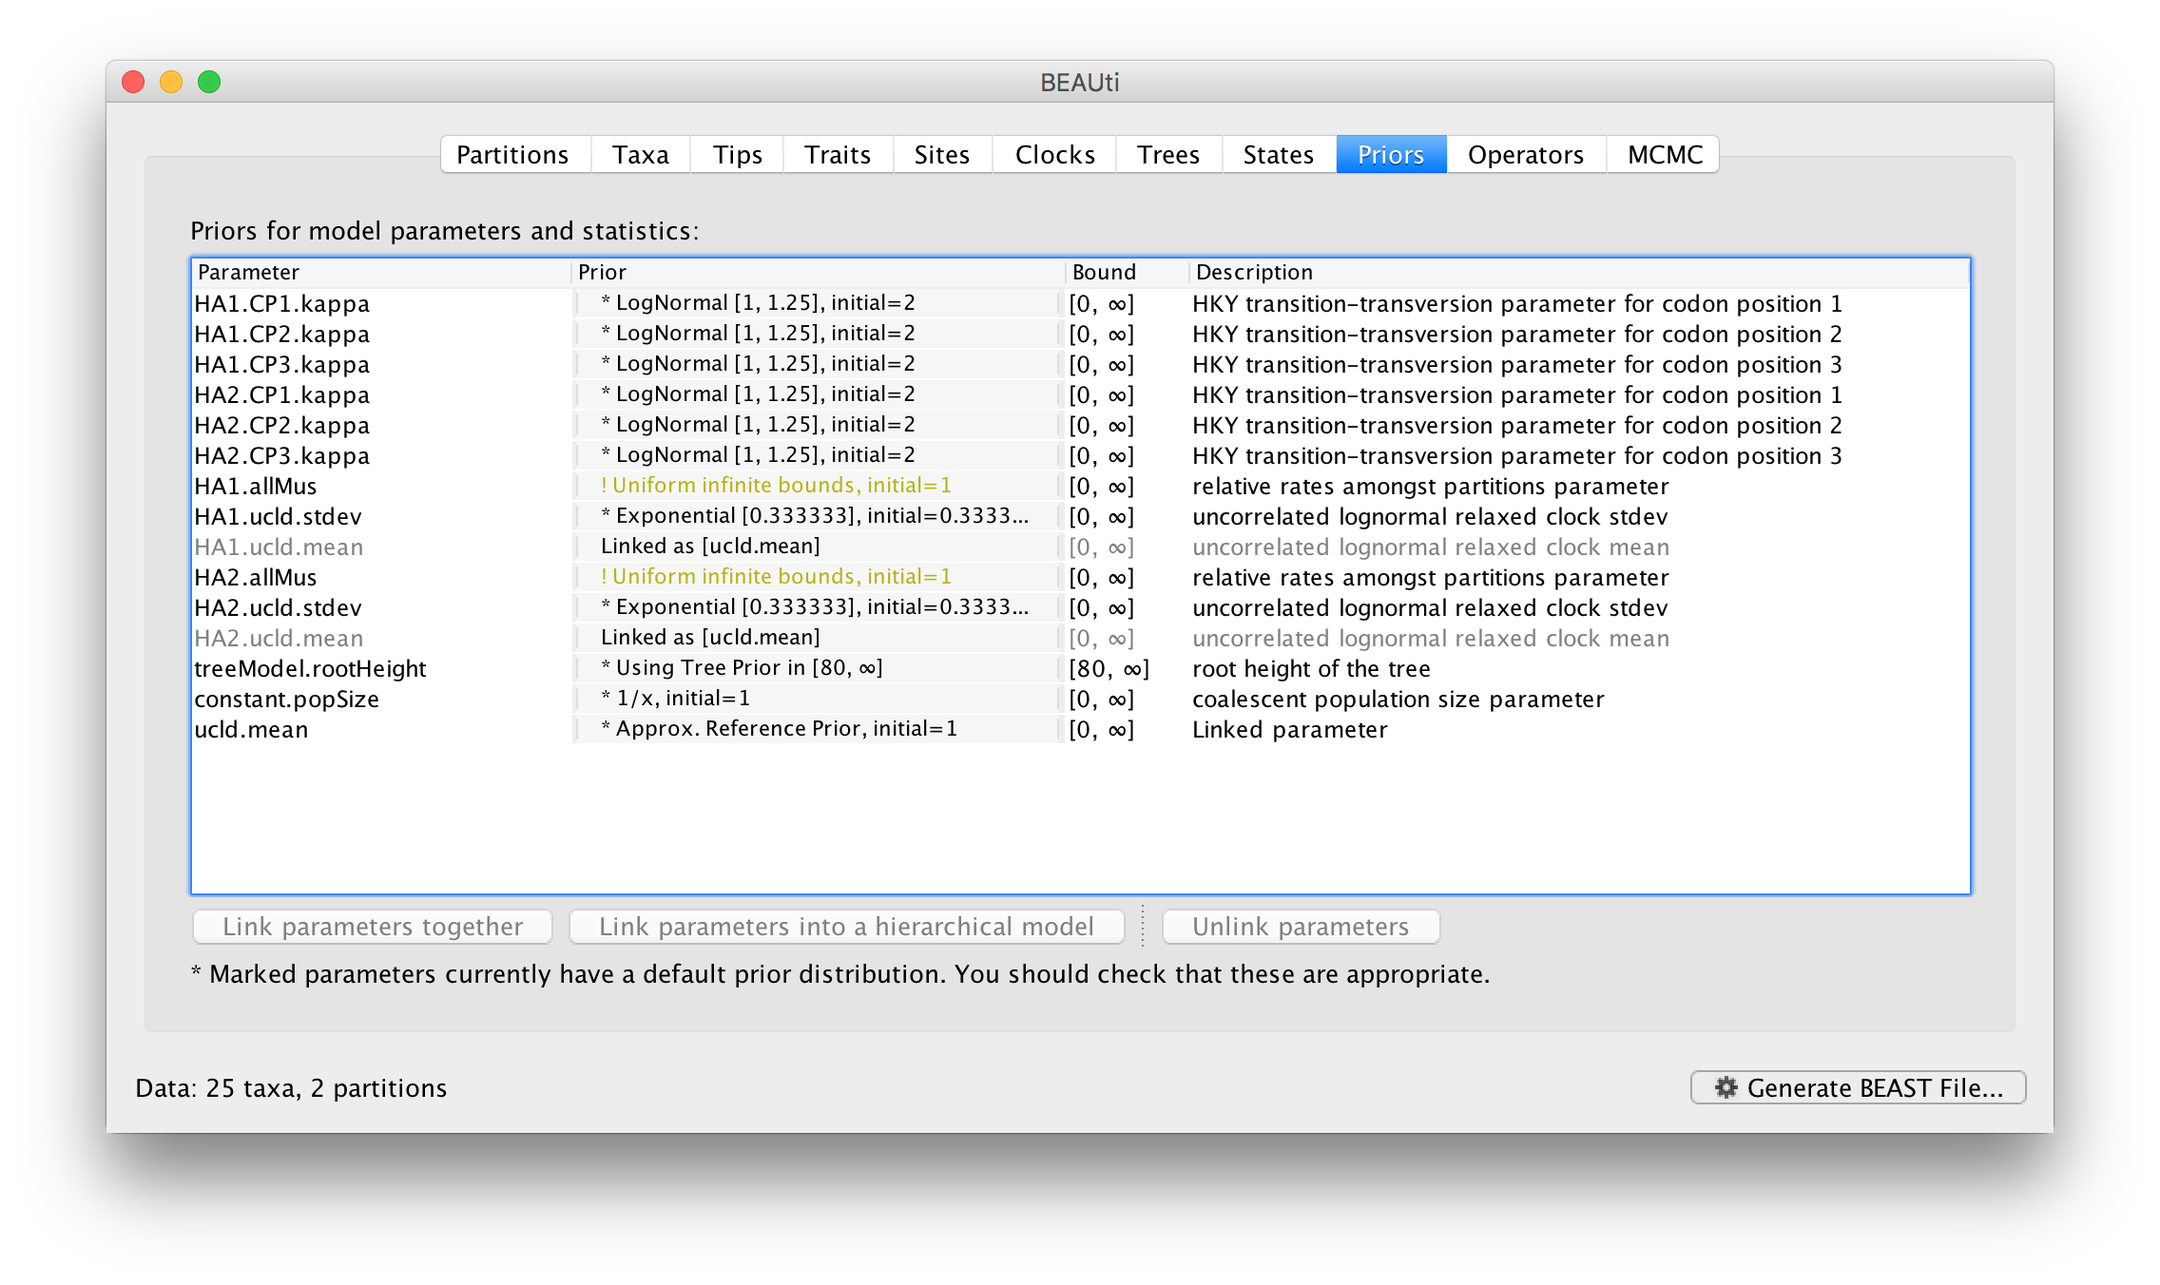
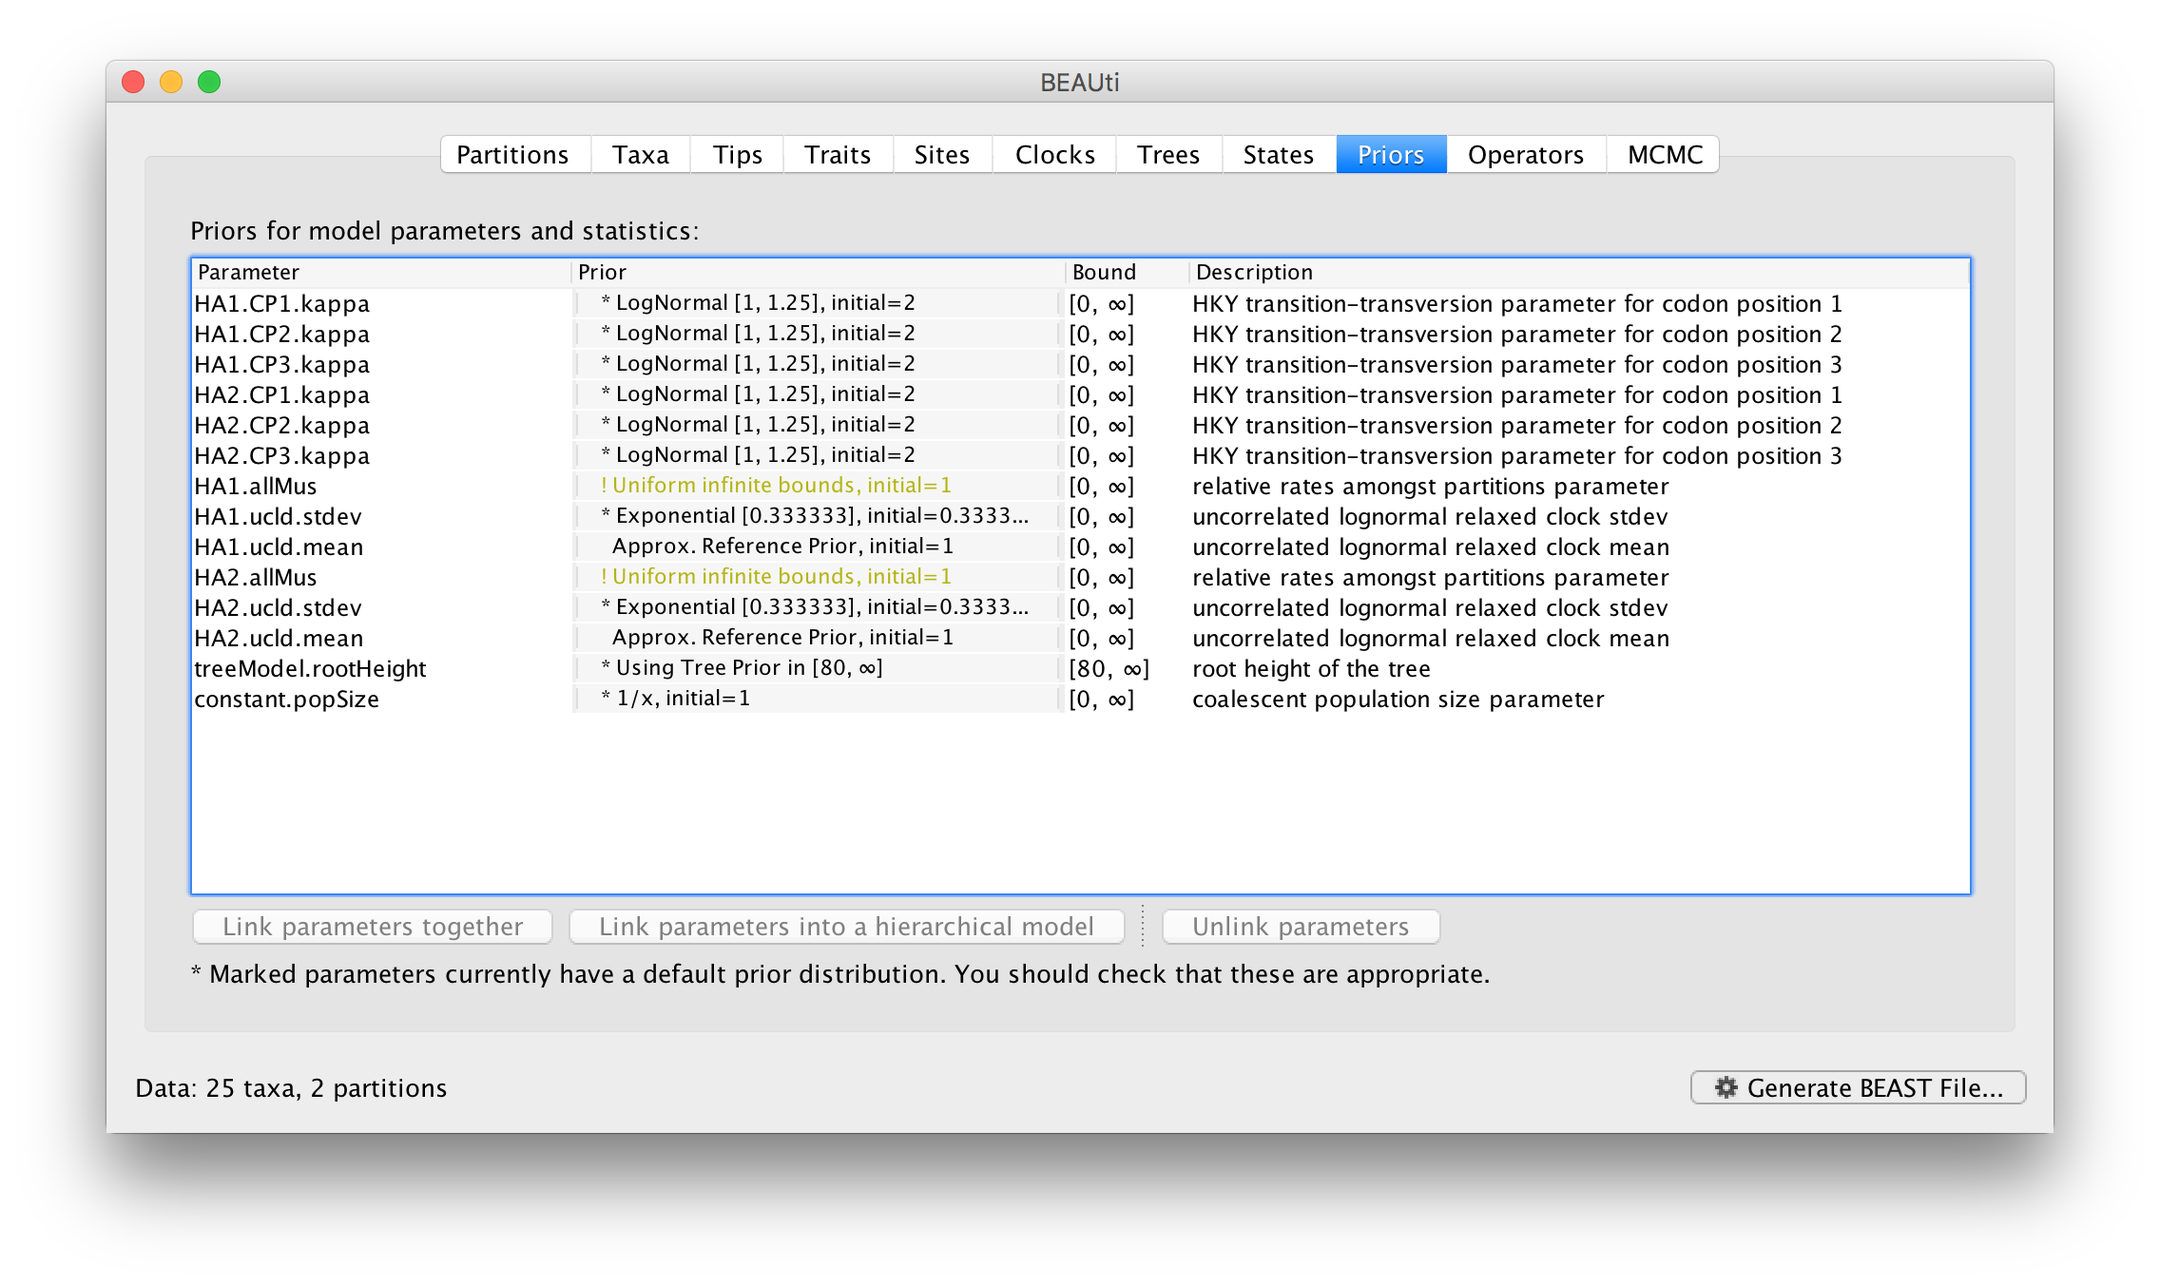
Finished up how to on constructing complex models

diff --git a/tutorials/howtos/constructing_models.md b/tutorials/howtos/constructing_models.md
@@ -3,7 +3,7 @@ title: Construct a model in BEAUti
 keywords: tracer, tutorial
 last_updated: August 12, 2017
 tags: [how-to]
-summary: "This page discusses how to construct a phylogenetic model for your data using the graphical user interface in BEAUti."
+summary: "This page discusses how to construct a phylogenetic model for your data using the graphical user interface in BEAUti. It describes how to link and unlink model components for different data partitions (such as substitution models or molecular clock models). It also discusses linking individual parameters for even more flexibility."
 sidebar: beast_sidebar
 permalink: constructing_models.html
 folder: beast
@@ -17,63 +17,167 @@ folder: beast
 
 To load a sequence alignment, select the `Import Data...` option from the `File` menu. You can also click the `+` button at the bottom left of the window or just drag-and-drop the file into the main window. The data should be in either NEXUS or FASTA format. BEAUti will also import the data from a BEAST XML file (including all the data partitions, the dates of the tips, but not the models and settings).
 
-### Importing multiple partitions from a NEXUS file
+### Importing partitions from a NEXUS file
 
 NEXUS files can define multiple partitions using the `charset` command. For example, the example file in the BEAST package: `/examples/Data/H1N1_HA.nex` (or [download from here](/tutorials/howtos/files/H1N1_HA.nex)) divides the sequences into two partitions (note the sequences have been truncated here for brevity):
 
 ```
 #NEXUS
-begin data;
-dimensions ntax=12 nchar=898;
-format datatype=dna interleave=no gap=-;
-matrix
-Tarsius_syrichta  AAGTTTCATTGGAGCCACCACT...
-Lemur_catta       AAGCTTCATAGGAGCAACCATT...
-Homo_sapiens      AAGCTTCACCGGCGCAGTCATT...
-Pan               AAGCTTCACCGGCGCAATTATC...
-Gorilla           AAGCTTCACCGGCGCAGTTGTT...
-Pongo             AAGCTTCACCGGCGCAACCACC...
-Hylobates         AAGCTTTACAGGTGCAACCGTC...
-Macaca_fuscata    AAGCTTTTCCGGCGCAACCATC...
-M_mulatta         AAGCTTTTCTGGCGCAACCATC...
-M_fascicularis    AAGCTTCTCCGGCGCAACCACC...
-M_sylvanus        AAGCTTCTCCGGTGCAACTATC...
-Saimiri_sciureus  AAGCTTCACCGGCGCAATGATC...
+
+BEGIN DATA;
+	DIMENSIONS NTAX=25 NCHAR=1695;
+	FORMAT MISSING=? GAP=- DATATYPE=DNA;
+	MATRIX
+hSCar1918     ATGGAGGCAAGACTACTGGTCTTGTTATGTGCATTTGCA...
+hCambr39      ATGAAGGCAAGACTACTGGTCCTGTTATGTACACTTGCA...
+hCHR83        ATGAAAGCAAAACTACTGGTCCTGTTATGTGCACTCTCA...
+hFortMon47    ATGAAAGCAAAACTACTGATCCTGTTATGTGCACTTACA...
+hKiev79       ATGAAAGCAAAACTACTGGTCCTGTTATGTGCACTTTCA...
+hLenin54      ATGAAAGCAAAACTACTGGTCCTGTTATGTGCACTTTCA...
+hMongol85     ATGAAAGCAAAACTACTGGTCCTGTTATGTGCACTTTCA...
+hMongol91     -----------CCTAGTGGTCCTGTTATGTGCATTTACA...
+hNWS33        ATGAAGGCAAAACTACTGGTCCTGTTATGTGCACTTGCA...
+hPR34         ATGAAGGCAAACCTACTGGTCCTGTTATGTGCACTTGCA...
+hScot94       ATGAAAGAAAAACTACTGGTCCTGTTATGTGCACTTTCA...
+hSuita89      ATGAAAGCAAAACTACTAGTCCTGTTATGTGCATTTACA...
+hUSSR77       ATGAAAGCAAAACTACTGGTCCTGTTATGTGCACTTGCA...
+sEhime80      ATGAAGGCAATACTATTAGTCTTGCTATGTACATTTGCA...
+sIllino63     ATGAAGGCAATACTATTAGTCTTGTTATGTGCATTTGCA...
+sIowa30       ATGAAGGCAATACTATTAGTCTTGTTATGTGCATTTGCA...
+sNebrask92    ATGAAGGCAATACCATTAGTCTTGCTATATACATTTACA...
+sNewJers76    ATGAAGGCAATACTATTAGTCTTGTTATGTACATTTGCA...
+sStHya91      ATGAAAGCAATACTATTAGTCTTGCTATATACATTTACA...
+sWiscons61    ATGAAGGCAATACTATTAGTCTTGTTATGTGCATTTGCA...
+sWiscons98    ATGAAGGCAATACTATTAGTCTTGCTATATACATTCACA...
+aDuckA76      ATGGAAGCAAAACTATTTGTACTATTCTGTACATTCACT...
+aDuckB77      ATGGAAGTAAAACTATTTGTATTATTCTGCACATTCACT...
+aItaly87      ATGGAAGCAAAACTGTTTGTATTATTCTGTACATTCACT...
+aMallard85    ATGGAAGTAAAACTATTTGTACTATTCTGTACATTCACT...
 ;
-end;
+END;
 
 begin assumptions;
-    charset firsthalf = 1-449;
-    charset secondhalf = 450-898;
+	charset HA1 = 151-920;
+	charset HA2 = 1-150,921-1695;
 end;
+
 ```
+
+This alignment comprises haemagglutinin (HA) gene sequences from a collection of influenza viruses (the letter at the beginning of the labels denotes the host; a = avian, s = swine and h = human). The file contains two `charset` commands which define two domains of the protein --- HA1, the globular domain and HA2, the stem region. Note the HA1 domain lies within the HA2 so the latter is defined as two regions which are concatinated.
 
 When imported into BEAUti this results in two partitions in the `Partitions` panel:
 
-{% include image.html file="models1.png" prefix="/tutorials/howtos/" %}
+{% include image.html file="constructing_models1.png" prefix="/tutorials/howtos/" %}
 
-The two partitions (called `firsthalf` and `secondhalf` by the NEXUS file) by default share the same substitution model, clock model and tree. You can see that the `Site model`, `Clock model` and `Partition tree` columns of the table have `firsthalf` for both partitions. This is because these model components have been named after the first partition.
-
-As it stands this means the model specified is as if a single partition with all the data had been imported.
+The two partitions by default share the same substitution model, clock model and tree. You can see that the `Site model`, `Clock model` and `Partition tree` columns of the table are defined as `default`. 
  
 ### Importing partitions from multiple files
 
-The other way to load multiple partitions is simply to import them from different alignment files (NEXUS, FASTA or XML). The partitions will appear in the table named after the file they were loaded from. In most cases you should load partitions with exactly the same set of taxa (the names should be identical). If the partitions' set of taxa differ in anyway from each other then BEAUti will give them a different clock model and partition tree.
+The other way to load multiple partitions is simply to import them from different alignment files (NEXUS, FASTA or XML). The partitions will appear in the table named after the file they were loaded from. In most cases you should load partitions with exactly the same set of taxa (the names should be identical). If the partitions' set of taxa differ in any way from each other then BEAUti will give them a different clock model and partition tree.
 
-## Site models
+### Tip dates
+                  
+The first thing to do is to specify the dates of sampling of the sequences using the `Tips` panel. The year that each virus was isolate is given at the end of the labels. To extract the dates select the `Use tip dates` box and click the `Parse Dates` button and in the dialog box choose the `Defined just by its order`, `Order: last`, and `Parse as a number` options. [See this page for more details of how to use this dialog box to parse dates from tip labels](tips_dates).
+                            
+### Site models
                   
 Site models specify the evolutionary process that describes how the data was generated on the tree. For example, for DNA sequences this could be an HKY model with discrete gamma rate heterogeneity amongst sites. If you switch to the `Sites` panel using the tabs at the top, you can specify the details of this model.
-                 
-### Codon partitions
 
-## Molecular clock models
+On the left hand side is a table listing the site models currently in use. At the moment it only has the `default` which is being shared by both the data partitions:
+              
+{% include image.html file="constructing_models2.png" prefix="/tutorials/howtos/" %}
 
-## Trees
+The model settings on the right are for this site model. The default is the HKY model which has a parameter, `kappa`, specifying the ratio of transition and transversion rates. 
+
+### Molecular clock models
+
+Switch to the `Clocks` panel to set the clock model settings. In the same way as before, the current clock models are given in the table on the left and the settings for them on the right. Select the `Uncorrelated relaxed clock` as the choice for `default`:
+
+{% include image.html file="constructing_models3.png" prefix="/tutorials/howtos/" %}
+
+For the log normal model has two parameters, `ucld.mean` and `ucld.stdev` which are the mean and standard deviation of the lognormal distribution describing the distribution of rates on the branches in the tree. [See this page for more details about the various clock models and their parameters](clocks).
+
+### Tree priors
+
+In the `Trees` panel we again see the available trees on the left and the settings on the right. In this case the settings for the tree are actually the choice of tree prior:
+
+{% include image.html file="constructing_models4.png" prefix="/tutorials/howtos/" %}
+
+[The different tree priors available are described in more detail here.](tree_priors). For this, leave it at the default, `Coalescent: Constant Size`.
 
 ## Linking and unlinking models
 
+We will now look at linking and unlinking the components of the model to constuct different scenarios for the evolution of these sequences.
+
+To start with all the partitions share the same site model, molecular clock model and tree. So this is saying that all the sites in both partitions are evolving in the same way, at the same rate and on the same tree (**Figure 1**). 
+
+{% include image.html file="constructing_modelsA.png" prefix="/tutorials/howtos/" width="90%" caption="<b>Figure 1</b> | All partitions sharing the same site model, molecular clock model and tree. The parameters of these components are estimated across all data partitions." %}
+
+### Unlinking site models
+
+As it stands this means the model specified is as if a single partition with all the data had been imported. To relax this model, we can return to the `Paritions` panel. Select both partitions in the table and click the `Unlink Subst. Models` button. The result is that each partition gets its own site model (named after the partition):
+
+{% include image.html file="constructing_models5.png" prefix="/tutorials/howtos/" %}
+
+The settings for the two new site models will be copied from the existing 'default' one but now there will be a separate `kappa` parameter for each. In the `Priors` panel you will now see `HA1.kappa` and `HA2.kappa`:
+
+{% include image.html file="constructing_models7.png" prefix="/tutorials/howtos/" %}
+
+You will also see a new parameter, `allMus` which is a vector of relative rates, one for each partition. These are constrained to have a mean of 1.0 and are multiplied by the overall molecular clock rate to get the rate for each partition. In this way the rate of evolution can vary between data partition but because they share the same clock model the relative rate on each branch of the tree is the same. A general diagram of the scenario is shown in **Figure 2**. 
+
+{% include image.html file="constructing_modelsB.png" prefix="/tutorials/howtos/" width="90%" caption="<b>Figure 2</b> | The partitions each have their own site model, kappa parameter, and relative rate mu, but share a single molecular clock model and tree. This construction implies that whatever evolutionary forces or constraints are controlling the rates of evolution (and the details of the substitution process represented by kappa) differ between the data partitions. The relaxed clock also allows the rates to vary from branch to branch but this variation is shared between all partitions --- an extrinsic factor that operates on the whole genome." %}
+
+
+### Unlinking clock models
+
+Select both partitions in the data partition table and click the `Unlink Clock Models` button. The result is that each partition gets its own clock model (again, named after the partition):
+
+{% include image.html file="constructing_models8.png" prefix="/tutorials/howtos/" %}
+
+Returning to the `Priors` panel, you will notice some changes:
+
+{% include image.html file="constructing_models9.png" prefix="/tutorials/howtos/" %}
+
+The `allMus` parameter has been removed and replaced with a `ucld.mean` and `ucld.stdev` for each partition. This is because each partition now has its own molecular clock with its own independent rate so not longer needs a relative rate. Each partition also has its own distribution from which the relative rates for each branch are drawn (again, independently for each partition). A general diagram is shown in **Figure 3**.
+
+{% include image.html file="constructing_modelsC.png" prefix="/tutorials/howtos/" width="90%" caption="<b>Figure 3</b> | The partitions each have their own site model, kappa parameter, molecular clock model, rate parameter but still share the tree. This model implies that not only do the evolutionary forces or constraints vary between the data partitions but that these forces also vary from branch to branch independently for each partition." %}
+ 
+### Codon partitions
+
+Data partitions comprising protein-coding nucleotide sequences can be subdivided into codon position partitions. This is done in the `Sites` panel: 
+
+{% include image.html file="constructing_models10.png" prefix="/tutorials/howtos/" %}
+
+Select the `HA1` partition and then select from the `Partition into codon positions` menu. Select `3 partitions: positions 1, 2, 3`. Do the same for the `HA2` partition. In the `Priors` panel you will see that each of the 3 codon positions for each of the  partitions now has its own `kappa` parameter (`HA1.CP1.kappa` is the kappa for theHA1 partition, codon position 1, etc.):
+
+{% include image.html file="constructing_models11.png" prefix="/tutorials/howtos/" %}
+
+You will also that each partition now has its own `allMu` vector parameter. These are the set of relative rates for the codon positions for each partition. This is the equivalent of compiling each of the first, second, and third codon positions for each gene region into separate partitions but is generally more convenient. The codon positions of a particular partition share the same clock model and substitution model but this is probably the appropriate assumption.
+  
 ## Linking parameters
 
+At this stage we have a very general, parameter rich, model and we may wish to constrain it by linking particular parameters. This links two or more independent parameters that they are a single entity that always have the same value. This allows you to jointly estimate the parameter across different partitions even though other aspects of their models are independent. For example, we can link the overall rate of evolution for our two partitions. In the `Priors` select the two clock rate parameters (`HA1.ucld.mean` and `HA2.ucld.mean`) and click the `Link parameters together` button. A dialog box will appear showing the parameters being linked, the name of the new 'controlling' parameter and the prior on this parameter: 
+
+{% include image.html file="constructing_models12.png" prefix="/tutorials/howtos/" %}
+
+Name the new parameter but leave the other options at their defaults, click `OK` and you see the table has been updated so the linked parameters are in grey and the new controlling parameter is at the bottom: 
+
+{% include image.html file="constructing_models13.png" prefix="/tutorials/howtos/" %}
+
+You could also link the `HA1.ucld.stdev` and `HA2.ucld.stdev` parameters similarly.  Linking both the ucld.mean and ucld.stdev parameters of the clock models for the two partitions together is saying that the rates of evolution for each branch is drawn from exactly the same distribution for each partition, but which actual branch is a fast or slow one is different. 
+
+Or you could link `HA1.CP1.kappa` with `HA2.CP1.kappa`, and `HA1.CP2.kappa` with `HA2.CP2.kappa`, etc. This would say that codon position 1 in 'HA1' has the same underlying ratio of transitions to tranversions as 'HA2' even if the rates differ between them.
+
 ## Hierarchical phylogenetic models
+
+You can also link parameters together in a **Hierarchical phylogenetic model** (HPM). This takes the approach that the individual parameters are not exactly the same but rather are drawn from a common underlying distribution (say a normal distribution) and the parameters of that distribution (the mean and stdev for the normal) are then estimated. [For more information about HPMs see this tutorial](hierarchical_models).
+
+## Unlinking trees
+
+The ultimate, most general, model is to also unlink the trees between partitions (using the `Unlink Trees` button in the `Partitions` panel). Doing this results in each partition not only have its own subtitution model, molecular clock model and parameters but also a completely different tree. Just doing this essentially performs independent analyses in a single BEAST run (probably not the most efficient way of doing this). 
+
+However there are a number of situations for which unlinking the trees may be appropriate. If the different partitions are independent, unlinked, loci from the same individuals then can be used in [a multi-locus coalescent analysis](tree_priors#skygrid) to jointly estimate the demographic history. 
+
+If the data partitions are samples taken from different populations (i.e., viruses from separate outbreaks or from different patients) then they will, by definition, have different trees but parameter linking or [hierarchical modelling](hierarchical_models) could jointly estimate parameters which they do have in common (such as rate of evolution).
 
 {% include links.html %}

diff --git a/pages/beast/reference/beast_tree_priors.md b/pages/beast/reference/beast_tree_priors.md
@@ -1,6 +1,6 @@
 ---
 title: Tree Priors
-permalink: treepriors.html
+permalink: tree_priors.html
 sidebar: beast_sidebar
 tags: [reference, help]
 keywords: software, coalescent, tree prior, beast
